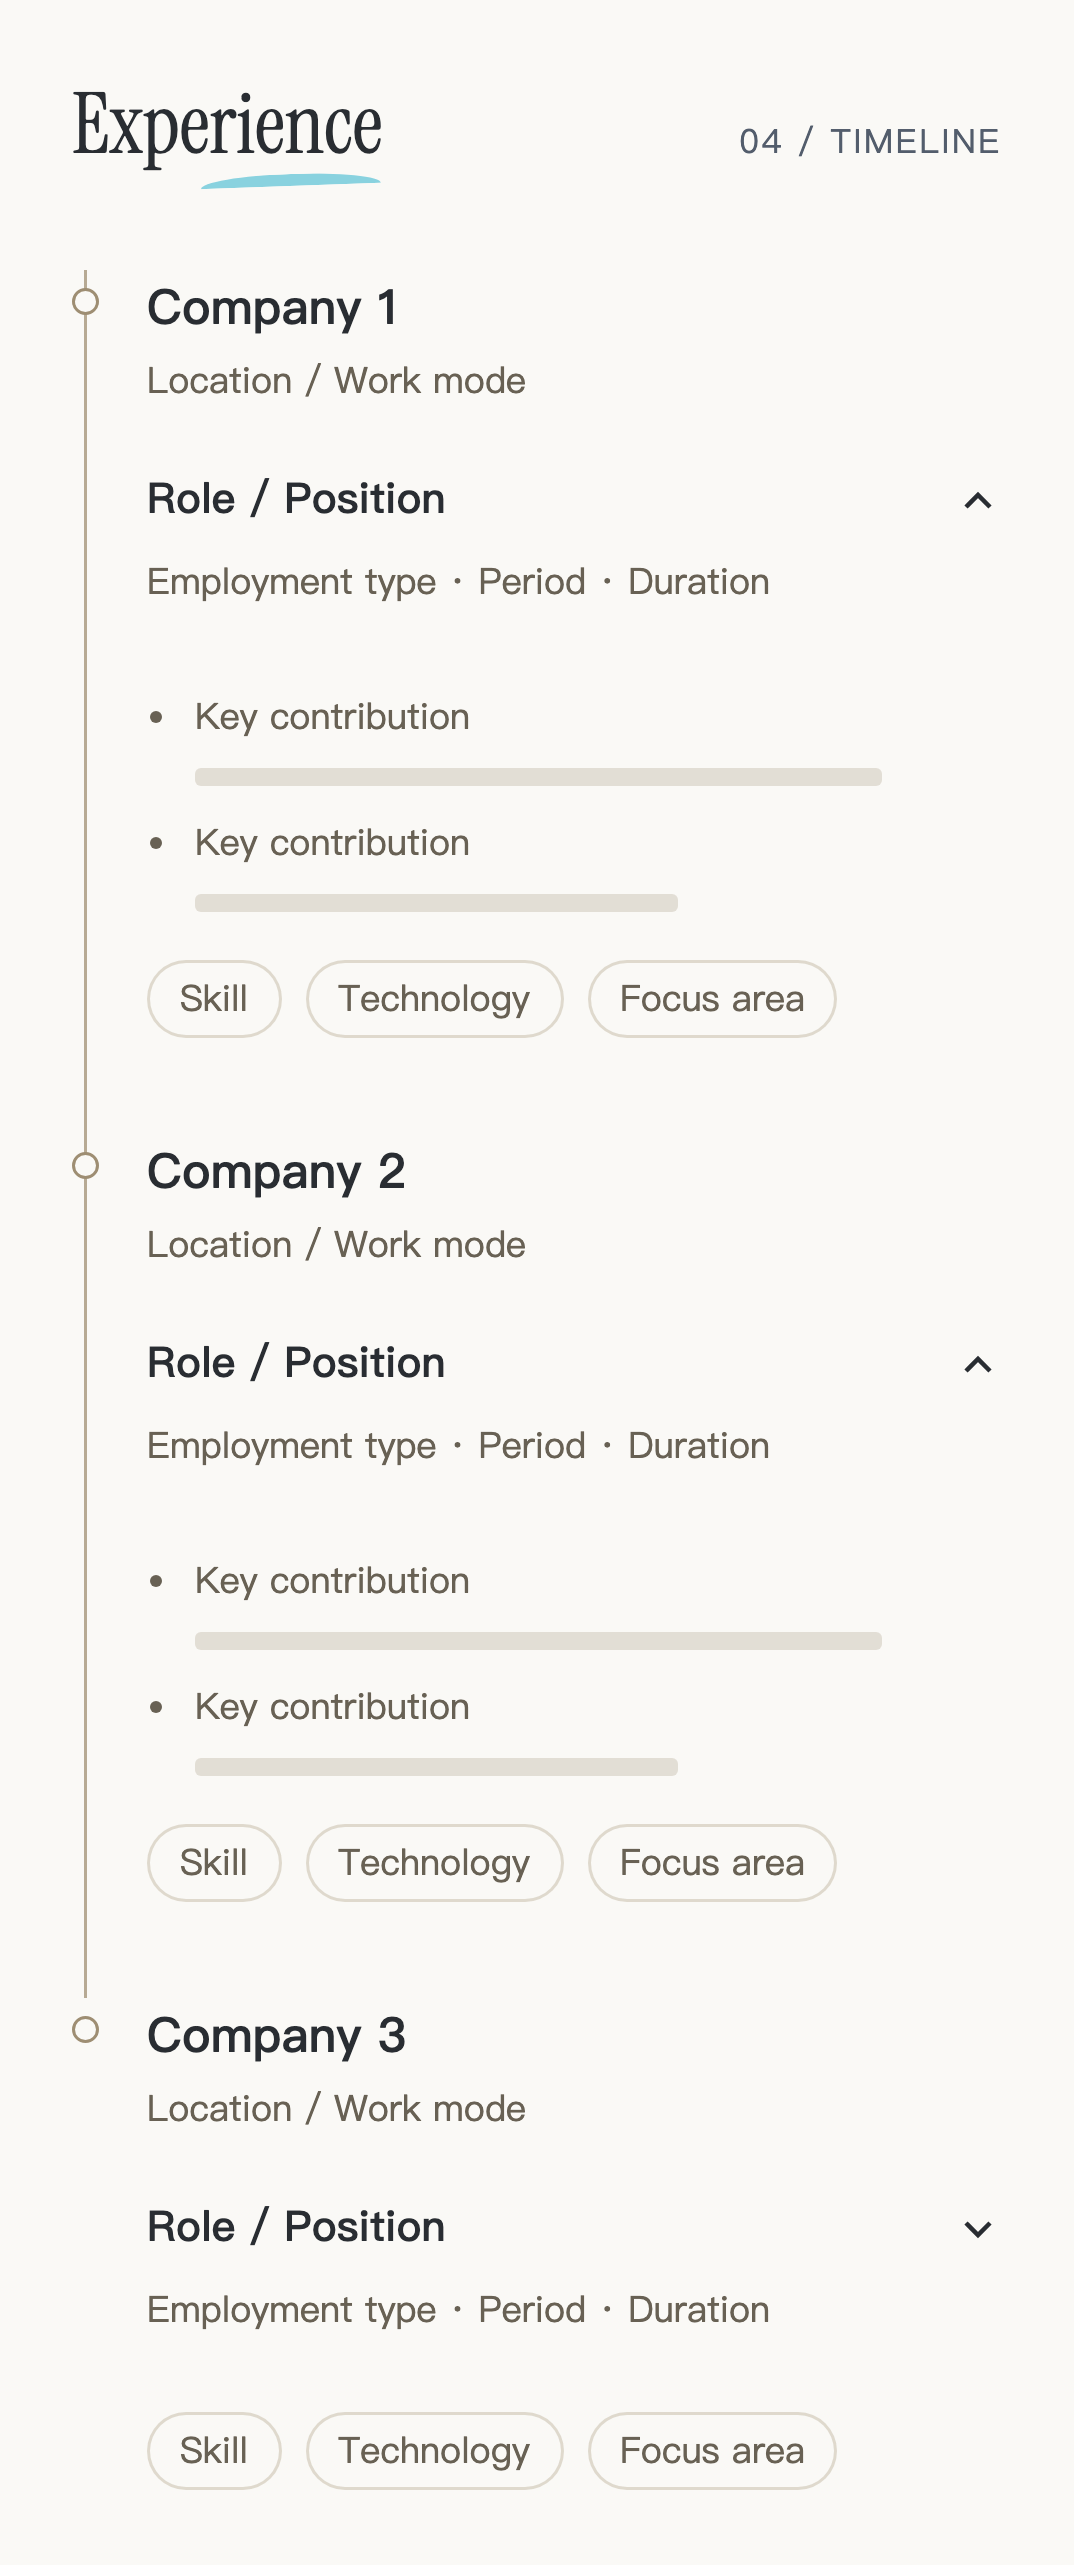
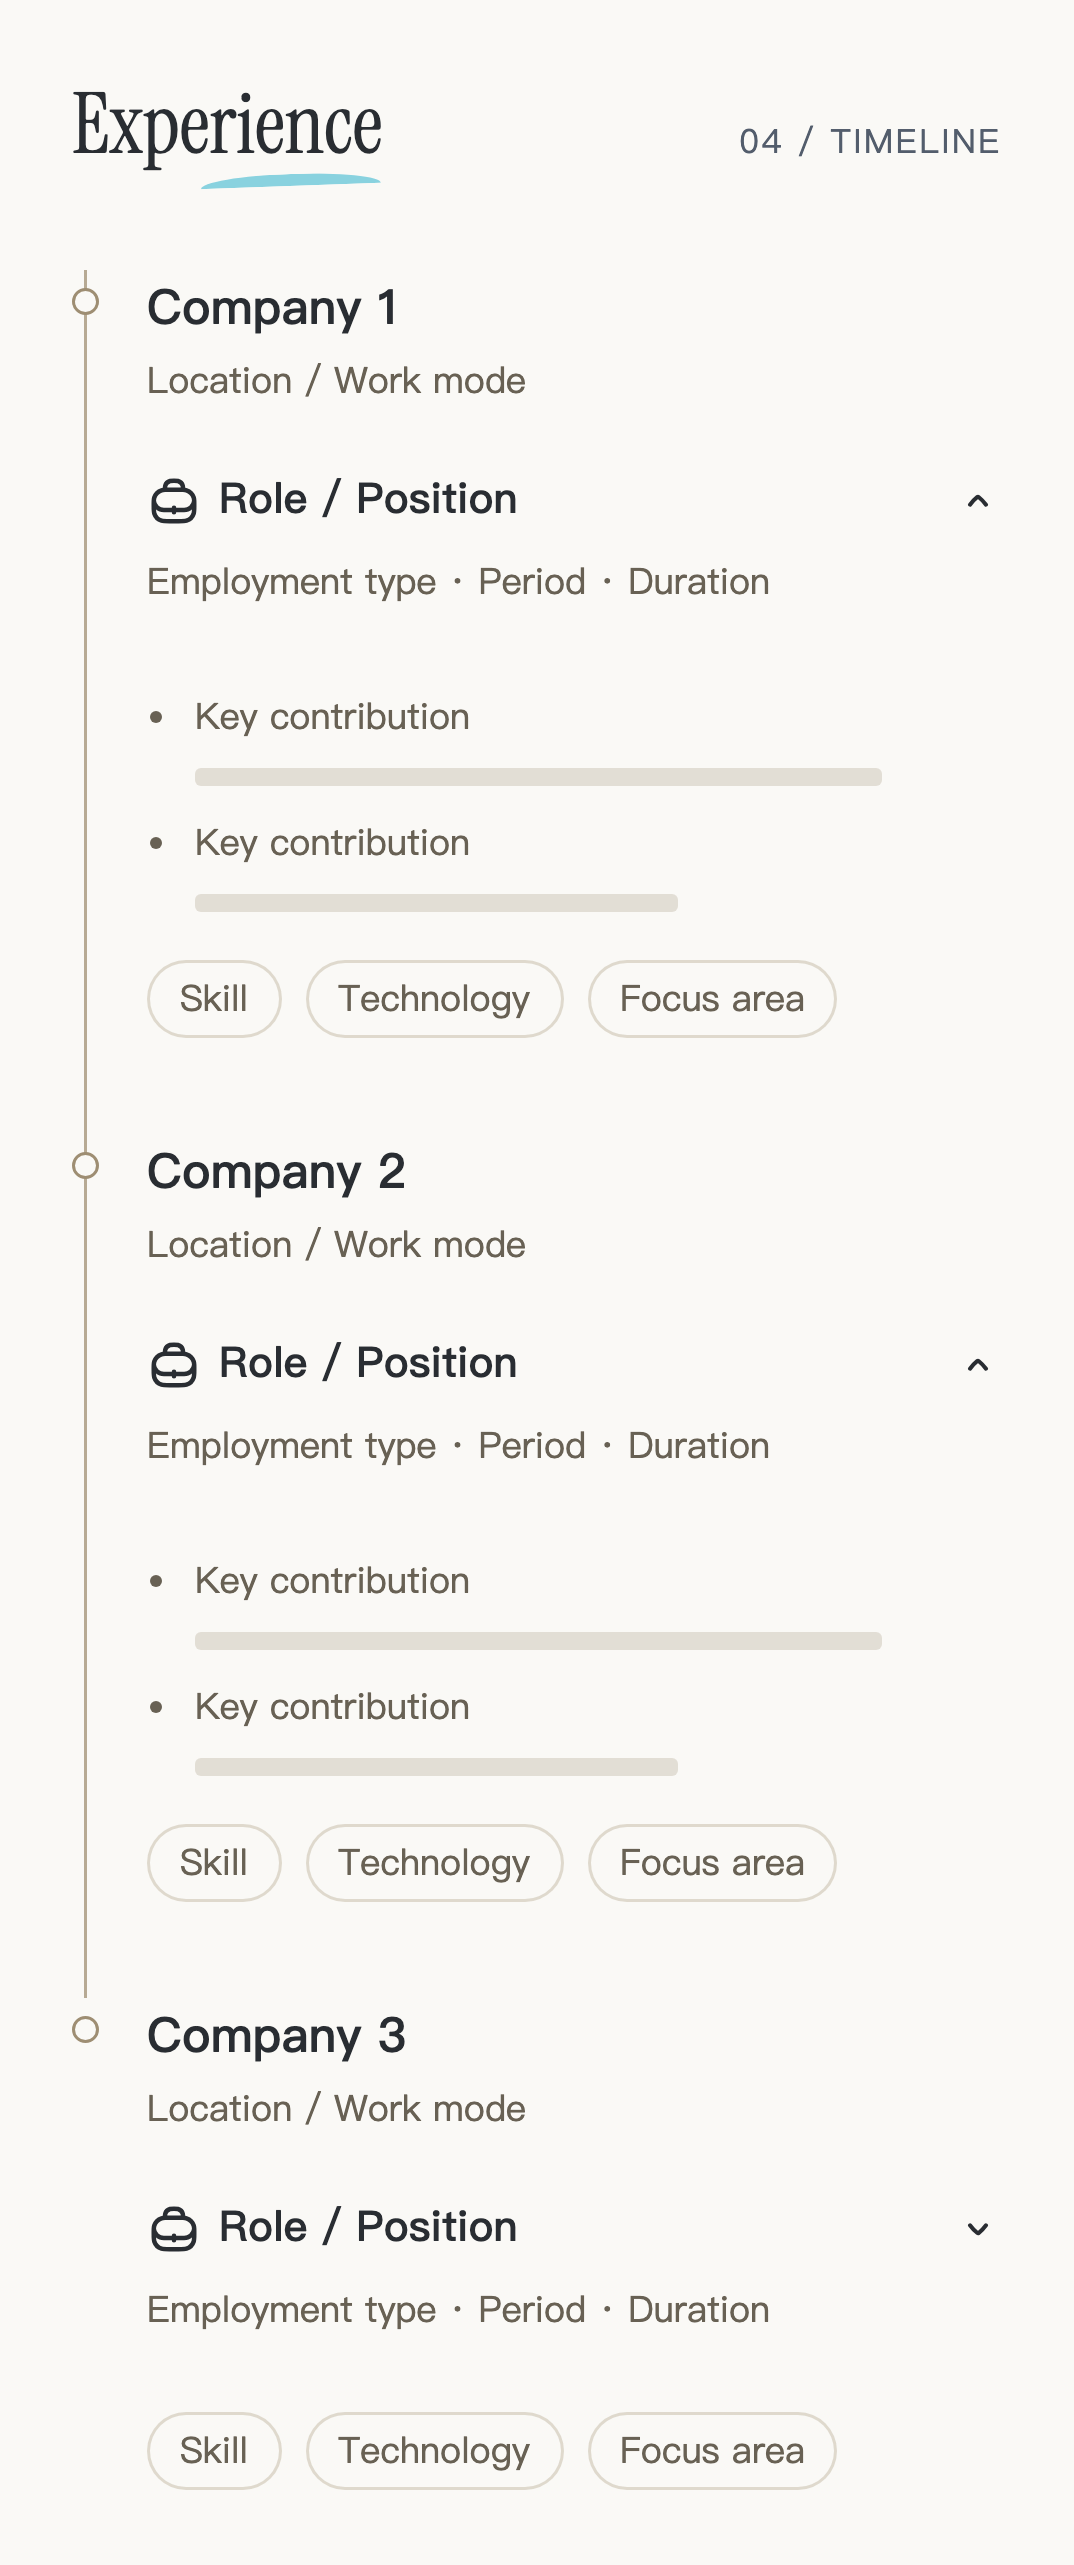
feat: add Pikaicons and record homepage layout approval

Changed region(s): [[0.1229, 0.8421, 0.4916, 0.8733], [0.1229, 0.1871, 0.4916, 0.2183], [0.1536, 0.499, 0.4609, 0.5614]]

diff --git a/src/styles/global.css b/src/styles/global.css
@@ -170,8 +170,32 @@ h3 {
   font-size: 14px;
   color: #616771;
 }
-.project-links span {
-  margin-left: 4px;
+.project-links li,
+.contact-placeholders li,
+.role-label,
+.language-preview {
+  display: inline-flex;
+  align-items: center;
+  gap: 6px;
+}
+.pika-icon {
+  width: 18px;
+  height: 18px;
+  flex-shrink: 0;
+}
+.external-link-icon {
+  width: 14px;
+  height: 14px;
+}
+.nav-preview {
+  display: flex;
+  align-items: center;
+  gap: 20px;
+}
+.language-preview {
+  color: #616771;
+  font-size: 12px;
+  white-space: nowrap;
 }
 .timeline {
   list-style: none;
@@ -247,8 +271,6 @@ h3 {
   width: 16px;
   height: 16px;
   flex-shrink: 0;
-  stroke: currentColor;
-  stroke-width: 1.5;
 }
 .experience-details[open] .disclosure-icon {
   transform: rotate(180deg);
@@ -364,9 +386,6 @@ h3 {
   list-style: none;
   padding: 0;
   margin: 0;
-}
-.contact-placeholders span {
-  margin-left: 4px;
 }
 .footer-landscape {
   display: block;

diff --git a/docs/layout-review.md b/docs/layout-review.md
@@ -1,8 +1,9 @@
 # Homepage layout review — issue #3
 
-Status: **awaiting Caven's explicit layout approval**. This implementation and
-its passing checks do not complete [issue #3](https://github.com/keyding/caven.me/issues/3).
-Keep the issue open and do not begin the next content ticket until approval is recorded.
+Status: **homepage structure approved by Caven on 2026-09-14** for
+[issue #3](https://github.com/keyding/caven.me/issues/3). Caven confirmed the
+structure and authorized committing and merging PR #11. Real content, production
+links, localization, and final artwork remain separate follow-up work.
 
 ## Composition
 
@@ -101,7 +102,7 @@ Codex in-app browser on 2026-09-11 after Ego Lite screenshot capture timed out:
   hierarchy to the agreed light direction instead of reproducing that theme.
 
 This is a new composition informed by those observations. No motion fidelity
-is claimed; this placeholder slice contains no animation.
+is claimed; the signature writing animation is described below.
 
 ## Validation
 
@@ -111,7 +112,7 @@ navigation region did not exist. After implementation, both tests passed.
 
 - `pnpm exec vp run lint`: passed.
 - `pnpm exec vp run typecheck`: zero errors, warnings, or hints.
-- `pnpm exec vp run test`: full suite passed, 4/4; includes production build.
+- `pnpm exec vp run test`: full suite passed, 10/10; includes production build.
 - Browser assertions: HTTP 200, seven visible regions in reading order, disjoint
   region bounds, horizontal containment, and three project slots.
 - Screenshots are generated by the test in `test-results/`; the reviewed copies
@@ -138,12 +139,22 @@ Caven explicitly adopted homepage-only project presentation: title, concise
 introduction, optional project/source links and landscape image. Issues #1, #3–7,
 #9 and #10 are aligned with that first-release scope.
 The illustration now grows with the entire page width, including wide desktops.
-These requests are not final approval.
-
-Pending. Review the relative width, section spacing, introduction height,
-project-entry proportions, and mobile reading order. Record Caven's decision
-and any adjustments here before treating the layout as approved.
+On 2026-09-14, after reviewing the Pikaicons preview and the smaller square
+external-link icon, Caven confirmed: “结构上我确认的应该没问题了，#3可以关闭了嘛”.
+Caven then explicitly authorized committing and merging PR #11. This records
+approval of the homepage structure and completes the layout approval gate.
+It does not approve final content or production artwork.
 
 ## Signature animation
 
 The footer uses inline SVG contours with separate animated stroke masks for the C, a, v, and en ligature. The C is partitioned into its main stroke, return loop, and horizontal finish so crossings cannot reveal later strokes early. The original static SVG remains available as a standalone asset. IntersectionObserver starts a single 2.65-second writing sequence when half the signature enters the viewport; completion reveals the unmasked original contours and never replays. Reduced-motion preferences (including changes during playback) show the full signature immediately. Without JavaScript or IntersectionObserver, the SVG stays fully visible. No animation library or font dependency is required.
+
+## Pikaicons
+
+The preview uses local Stroke SVGs from the user-provided Pikaicons library for
+language, website, source code, Email, GitHub, role, disclosure, and external-link
+indicators. Main icons render at 18px, disclosures at 16px, and square external-link
+indicators at 14px. Paths retain their original 24px viewBox and use currentColor.
+Source node IDs are recorded in `src/assets/icons/README.md`. Language and
+destination labels remain non-interactive placeholders; technology and company
+logos belong to later content work.

diff --git a/src/assets/icons/README.md b/src/assets/icons/README.md
@@ -1,0 +1,17 @@
+# Pikaicons preview assets
+
+Source: user-provided Pikaicons Figma file `ZlJMcVk1fkmBTHh7uSNiuH`, Icons page `0:1`.
+All icons use the Stroke variant. Exported on 2026-09-14.
+
+| Asset             | Figma node  |
+| ----------------- | ----------- |
+| translate.svg     | 30877:4196  |
+| external-link.svg | 24187:11211 |
+| chevron-down.svg  | 24187:11171 |
+| globe.svg         | 24187:11486 |
+| code.svg          | 30877:6650  |
+| email.svg         | 24187:10862 |
+| github.svg        | 30877:8170  |
+| briefcase.svg     | 24187:9463  |
+
+Only the Style=Stroke group is retained from each export, preserving its paths and 24×24 viewBox. Exported backgrounds and IDs are removed; the foreground color uses currentColor. Chevron-down rotates 180 degrees for the open state. Language and destination labels remain non-interactive preview content.
